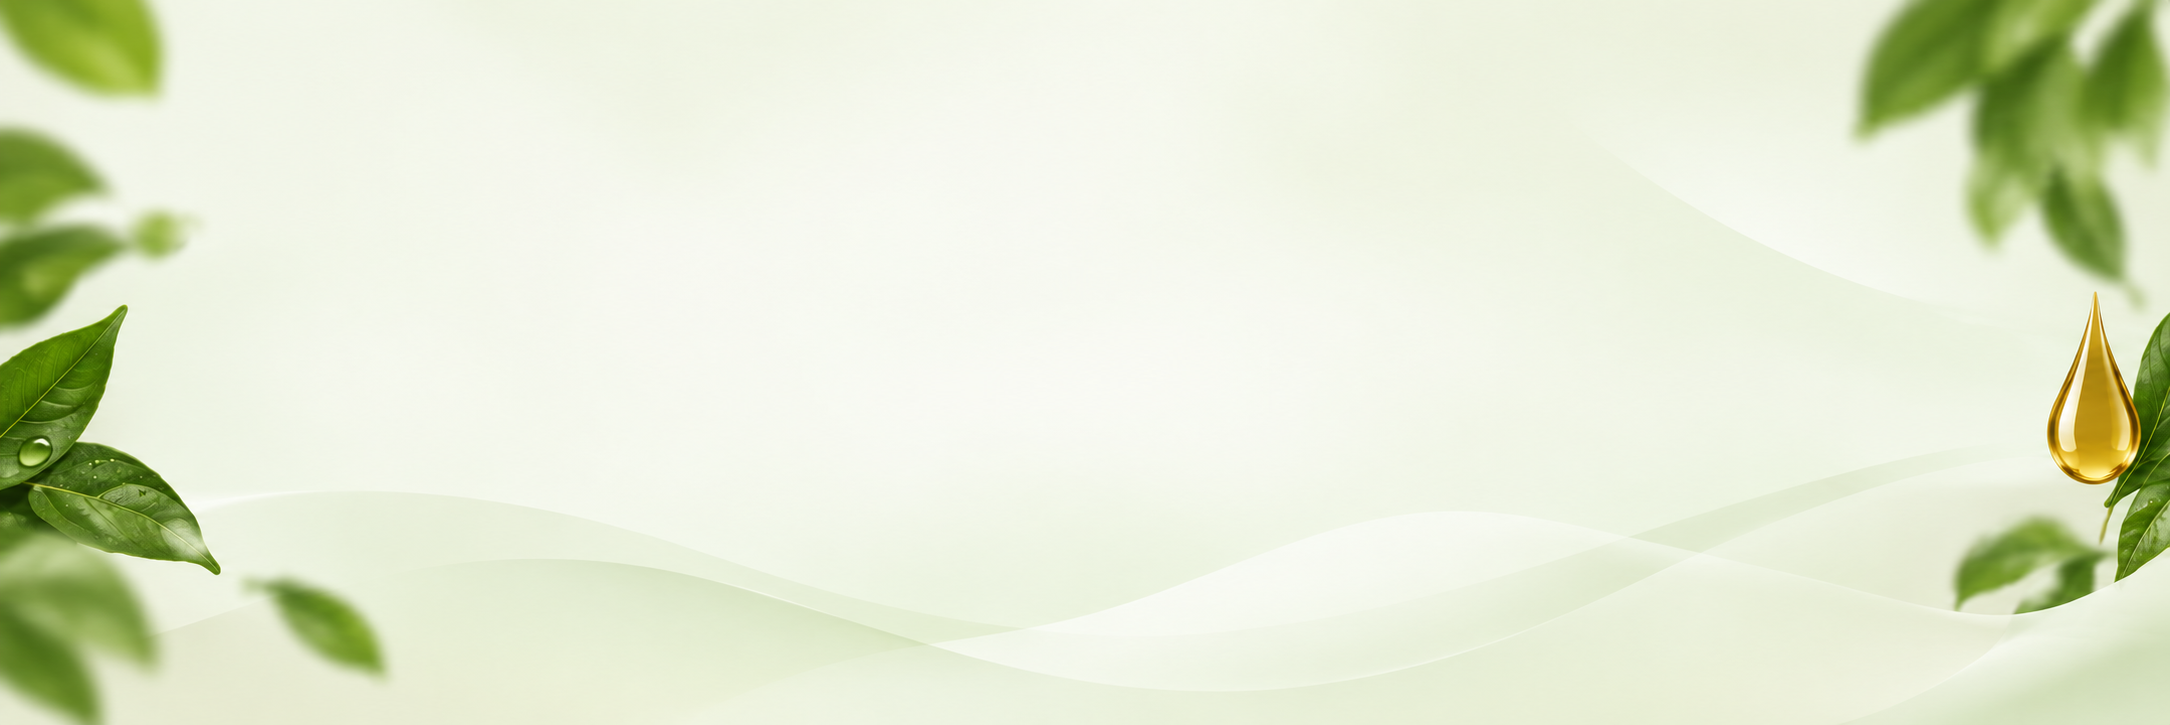
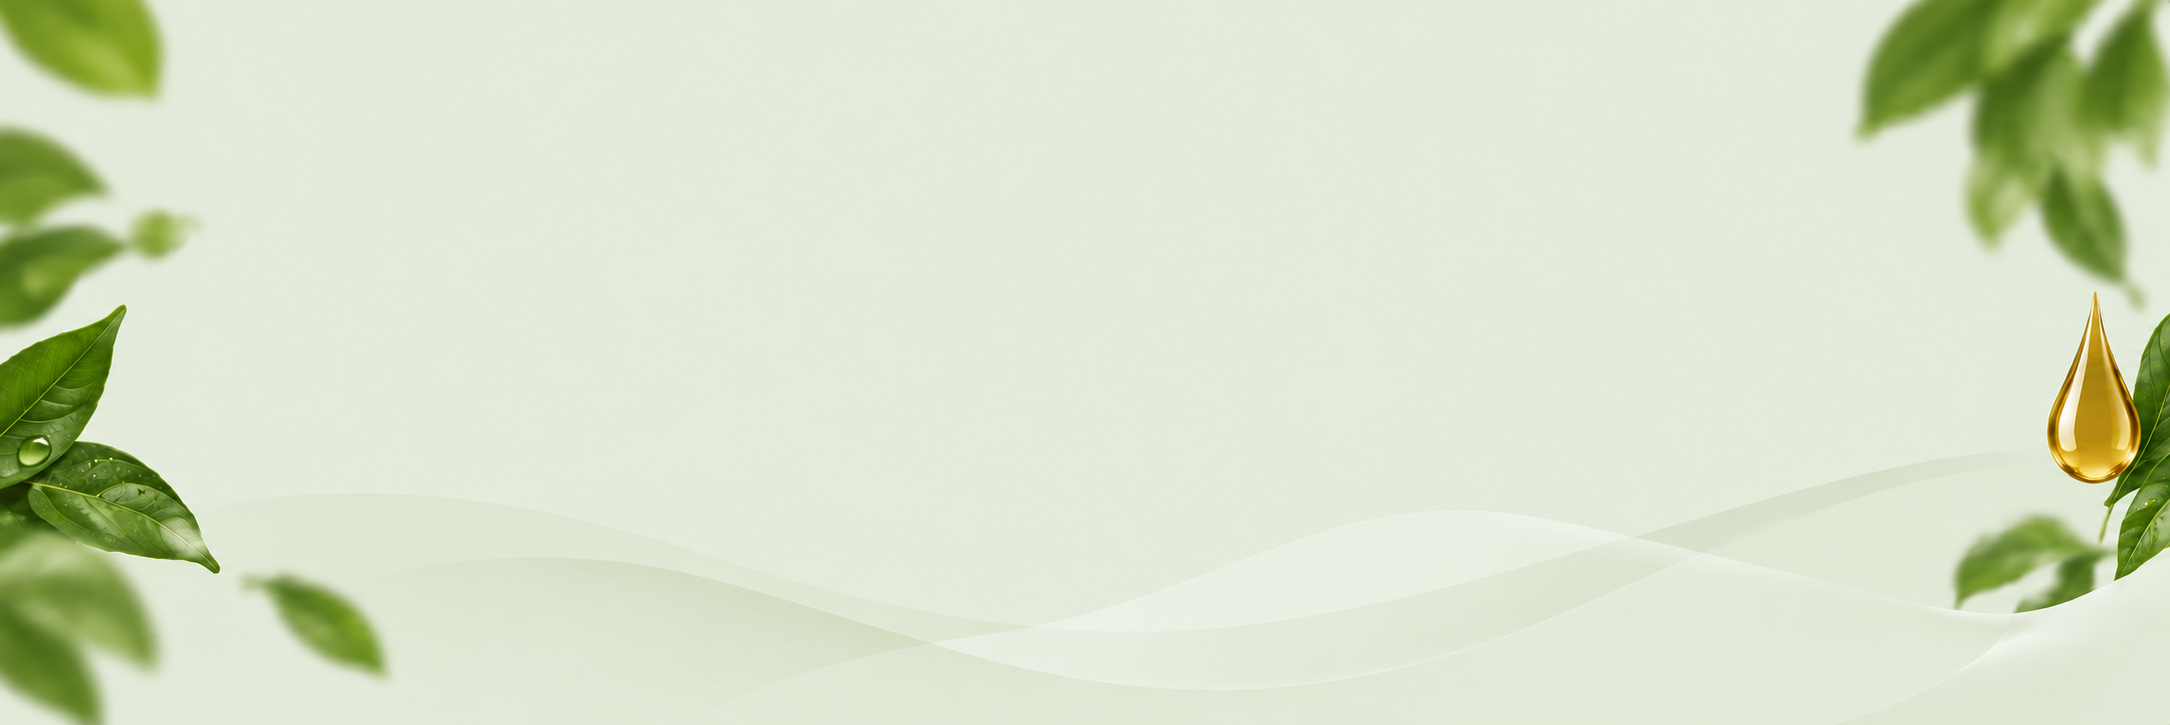
feat: add SectionHeading component with animated flourish and scroll effects

diff --git a/src/components/OilRange.jsx b/src/components/OilRange.jsx
@@ -1,157 +1,88 @@
-import { useEffect, useRef, useState } from 'react'
 import { Link } from 'react-router-dom'
 import { ArrowRight } from 'lucide-react'
 import { useProducts } from '../context/ProductsContext'
 import { useVisibleProducts } from '../lib/catalog'
 import VariantCard from './VariantCard'
+import TrustBar from './TrustBar'
+import SectionHeading from './SectionHeading'
 
-const REDUCED_MOTION =
-  typeof window !== 'undefined' &&
-  window.matchMedia?.('(prefers-reduced-motion: reduce)').matches
-
-// One half of the flourish: a flowing double line that ends in a curl.
-// Drawn for the left side; the right side is the same shape mirrored.
-function Scroll({ inView }) {
-  const draw = {
-    strokeDasharray: 1,
-    strokeDashoffset: inView ? 0 : 1,
-    transition: REDUCED_MOTION ? 'none' : 'stroke-dashoffset 1.1s var(--ease-default) 0.2s',
-  }
-  return (
-    <>
-      <path
-        pathLength="1"
-        d="M191,43 C170,52 148,53 128,45 C108,37 86,31 64,37 C46,42 34,49 20,45 C10,42 7,31 15,27 C21,24 28,29 25,34"
-        fill="none" stroke="currentColor" strokeWidth="3" strokeLinecap="round" style={draw}
-      />
-      <path
-        pathLength="1"
-        d="M191,43 C168,60 138,62 112,53 C92,46 76,40 62,38"
-        fill="none" stroke="currentColor" strokeWidth="2.2" strokeLinecap="round" style={draw}
-      />
-    </>
-  )
-}
-
-// Lotus + mirrored scrolls, echoing an ornamental divider — used as the
-// "underline" beneath each oil heading. Draws itself in on scroll.
-function Flourish({ inView }) {
-  const fade = {
-    opacity: inView ? 1 : 0,
-    transition: REDUCED_MOTION ? 'none' : 'opacity 0.7s var(--ease-default) 0.5s',
-  }
-  return (
-    <svg
-      viewBox="0 0 400 66"
-      aria-hidden="true"
-      className="mx-auto mt-2 h-11 w-[16rem] text-olive-600 sm:h-14 sm:w-[21rem]"
-    >
-      <Scroll inView={inView} />
-      <g transform="translate(400 0) scale(-1 1)">
-        <Scroll inView={inView} />
-      </g>
-
-      <g style={{ ...fade, color: 'var(--color-gold-500)' }} fill="currentColor">
-        {/* centre petal, with a hollow */}
-        <path
-          fillRule="evenodd"
-          d="M200,6 C190,17 183,28 187,41 C192,45 208,45 213,41 C217,28 210,17 200,6 Z M200,17 C195,25 193,33 196,39 C198,41 202,41 204,39 C207,33 205,25 200,17 Z"
-        />
-        {/* outline side petals */}
-        <path d="M168,20 C180,20 189,27 192,38 C182,38 173,31 168,20 Z" fill="none" stroke="currentColor" strokeWidth="2" strokeLinejoin="round" />
-        <path d="M232,20 C220,20 211,27 208,38 C218,38 227,31 232,20 Z" fill="none" stroke="currentColor" strokeWidth="2" strokeLinejoin="round" />
-        {/* solid lower petals */}
-        <path d="M156,43 C168,36 186,36 199,45 C186,52 168,52 156,43 Z" />
-        <path d="M244,43 C232,36 214,36 201,45 C214,52 232,52 244,43 Z" />
-      </g>
-    </svg>
-  )
-}
-
-function OilHeading({ text }) {
-  const ref = useRef(null)
-  const [inView, setInView] = useState(REDUCED_MOTION)
-
-  useEffect(() => {
-    if (REDUCED_MOTION || !ref.current) return
-    const io = new IntersectionObserver(
-      ([entry]) => {
-        if (entry.isIntersecting) {
-          setInView(true)
-          io.disconnect()
-        }
-      },
-      { threshold: 0.6 },
-    )
-    io.observe(ref.current)
-    return () => io.disconnect()
-  }, [])
-
-  return (
-    <div ref={ref}>
-      <h3 className="font-display text-3xl font-bold leading-tight text-olive-800 sm:text-4xl">
-        {text} <span className="font-medium text-gold-600">Samaha</span>
-      </h3>
-      <Flourish inView={inView} />
-    </div>
-  )
-}
+const SECTION_PAD = 'mx-auto max-w-[1500px] px-4 py-[clamp(2.5rem,6vw,4.5rem)] sm:px-[clamp(1.75rem,5vw,5rem)]'
 
 export default function OilRange() {
   const { oilGroups: OIL_VARIANTS, loading: productsLoading } = useProducts()
   const isVisible = useVisibleProducts()
 
-  if (productsLoading || OIL_VARIANTS.length === 0) return null
+  if (productsLoading) return null
+
+  const groups = OIL_VARIANTS
+    .map((oil) => ({ oil, variants: oil.variants.filter((v) => isVisible(v.slug)) }))
+    .filter((g) => g.variants.length > 0)
+
+  // nothing to list (e.g. the products API is down) — the trust bar still shows
+  if (groups.length === 0) return <TrustBar />
+
+  const [first, ...rest] = groups
+
+  // each oil: heading, cards (scroll sideways on mobile), "view all" button
+  const renderGroup = ({ oil, variants }) => (
+    <div key={oil.slug}>
+      <div className="text-center">
+        <SectionHeading title={oil.name} accent="Samaha" />
+        <p className="mt-2.5 text-xs uppercase tracking-[0.16em] text-text-mute">{oil.blurb}</p>
+      </div>
+
+      <div className="no-scrollbar mt-4 flex snap-x snap-mandatory gap-3 overflow-x-auto pb-1 sm:mt-5 sm:grid sm:snap-none sm:grid-cols-2 sm:gap-5 sm:overflow-visible lg:grid-cols-4">
+        {variants.map((v) => (
+          <div key={v.id} className="w-[64vw] max-w-[260px] shrink-0 snap-start sm:h-full sm:w-auto sm:max-w-none">
+            <VariantCard v={v} tint={oil.tint} blurb={oil.blurb} />
+          </div>
+        ))}
+      </div>
+
+      <div className="mt-5 text-center">
+        <Link
+          to={`/shop/${oil.slug}`}
+          className="group inline-flex items-center gap-1.5 rounded-pill border border-olive-800 px-4 py-2 text-xs font-semibold text-olive-900 transition-colors hover:bg-olive-900 hover:text-paper sm:text-sm"
+        >
+          View all {oil.name}
+          <ArrowRight size={13} className="transition-transform group-hover:translate-x-0.5" />
+        </Link>
+      </div>
+    </div>
+  )
+
+  const shopAll = (
+    <div className="mt-10 text-center sm:mt-12">
+      <Link
+        to="/shop"
+        className="group inline-flex items-center gap-2 rounded-pill border border-olive-800 px-6 py-3 text-sm font-semibold text-olive-900 transition-colors hover:bg-olive-900 hover:text-paper"
+      >
+        Shop all oils &amp; sizes
+        <ArrowRight size={15} className="transition-transform group-hover:translate-x-0.5" />
+      </Link>
+    </div>
+  )
 
   return (
-    <section className="bg-paper-inset" id="sizes" aria-label="Shop oils by size">
-      <div className="mx-auto max-w-[1500px] px-4 py-[clamp(2.5rem,6vw,4.5rem)] sm:px-[clamp(1.75rem,5vw,5rem)]">
-
-        {/* one section per oil, cards scroll horizontally on mobile */}
-        <div className="mt-2 space-y-10 sm:space-y-14">
-          {OIL_VARIANTS.map((oil) => {
-            const variants = oil.variants.filter((v) => isVisible(v.slug))
-            if (variants.length === 0) return null
-
-            return (
-              <div key={oil.slug}>
-                <div className="text-center">
-                  <OilHeading text={oil.name} />
-                  <p className="mt-2.5 text-xs uppercase tracking-[0.16em] text-text-mute">{oil.blurb}</p>
-                </div>
-
-                <div className="no-scrollbar mt-4 flex snap-x snap-mandatory gap-3 overflow-x-auto pb-1 sm:mt-5 sm:grid sm:snap-none sm:grid-cols-2 sm:gap-5 sm:overflow-visible lg:grid-cols-4">
-                  {variants.map((v) => (
-                    <div key={v.id} className="w-[64vw] max-w-[260px] shrink-0 snap-start sm:h-full sm:w-auto sm:max-w-none">
-                      <VariantCard v={v} tint={oil.tint} blurb={oil.blurb} />
-                    </div>
-                  ))}
-                </div>
-
-                <div className="mt-5 text-center">
-                  <Link
-                    to={`/shop/${oil.slug}`}
-                    className="group inline-flex items-center gap-1.5 rounded-pill border border-olive-800 px-4 py-2 text-xs font-semibold text-olive-900 transition-colors hover:bg-olive-900 hover:text-paper sm:text-sm"
-                  >
-                    View all {oil.name}
-                    <ArrowRight size={13} className="transition-transform group-hover:translate-x-0.5" />
-                  </Link>
-                </div>
-              </div>
-            )
-          })}
+    <>
+      <section className="bg-paper-inset" id="sizes" aria-label="Shop oils by size">
+        <div className={SECTION_PAD}>
+          {renderGroup(first)}
+          {rest.length === 0 && shopAll}
         </div>
+      </section>
 
-        <div className="mt-10 text-center sm:mt-12">
-          <Link
-            to="/shop"
-            className="group inline-flex items-center gap-2 rounded-pill border border-olive-800 px-6 py-3 text-sm font-semibold text-olive-900 transition-colors hover:bg-olive-900 hover:text-paper"
-          >
-            Shop all oils &amp; sizes
-            <ArrowRight size={15} className="transition-transform group-hover:translate-x-0.5" />
-          </Link>
-        </div>
-      </div>
-    </section>
+      {/* sits right after the first oil (Coconut) */}
+      <TrustBar />
+
+      {rest.length > 0 && (
+        <section className="bg-paper-inset" aria-label="More oils">
+          <div className={SECTION_PAD}>
+            <div className="space-y-10 sm:space-y-14">{rest.map(renderGroup)}</div>
+            {shopAll}
+          </div>
+        </section>
+      )}
+    </>
   )
 }

diff --git a/src/components/SectionHeading.jsx b/src/components/SectionHeading.jsx
@@ -1,0 +1,94 @@
+import { useEffect, useRef, useState } from 'react'
+
+const REDUCED_MOTION =
+  typeof window !== 'undefined' &&
+  window.matchMedia?.('(prefers-reduced-motion: reduce)').matches
+
+// One half of the flourish: a flowing double line that ends in a curl.
+// Drawn for the left side; the right side is the same shape mirrored.
+function Scroll({ inView }) {
+  const draw = {
+    strokeDasharray: 1,
+    strokeDashoffset: inView ? 0 : 1,
+    transition: REDUCED_MOTION ? 'none' : 'stroke-dashoffset 1.1s var(--ease-default) 0.2s',
+  }
+  return (
+    <>
+      <path
+        pathLength="1"
+        d="M191,43 C170,52 148,53 128,45 C108,37 86,31 64,37 C46,42 34,49 20,45 C10,42 7,31 15,27 C21,24 28,29 25,34"
+        fill="none" stroke="currentColor" strokeWidth="3" strokeLinecap="round" style={draw}
+      />
+      <path
+        pathLength="1"
+        d="M191,43 C168,60 138,62 112,53 C92,46 76,40 62,38"
+        fill="none" stroke="currentColor" strokeWidth="2.2" strokeLinecap="round" style={draw}
+      />
+    </>
+  )
+}
+
+// Lotus + mirrored scrolls, echoing an ornamental divider — used as the
+// "underline" beneath section headings. Draws itself in on scroll.
+function Flourish({ inView }) {
+  const fade = {
+    opacity: inView ? 1 : 0,
+    transition: REDUCED_MOTION ? 'none' : 'opacity 0.7s var(--ease-default) 0.5s',
+  }
+  return (
+    <svg
+      viewBox="0 0 400 66"
+      aria-hidden="true"
+      className="mx-auto mt-2 h-11 w-[16rem] text-olive-600 sm:h-14 sm:w-[21rem]"
+    >
+      <Scroll inView={inView} />
+      <g transform="translate(400 0) scale(-1 1)">
+        <Scroll inView={inView} />
+      </g>
+
+      <g style={{ ...fade, color: 'var(--color-gold-500)' }} fill="currentColor">
+        {/* centre petal, with a hollow */}
+        <path
+          fillRule="evenodd"
+          d="M200,6 C190,17 183,28 187,41 C192,45 208,45 213,41 C217,28 210,17 200,6 Z M200,17 C195,25 193,33 196,39 C198,41 202,41 204,39 C207,33 205,25 200,17 Z"
+        />
+        {/* outline side petals */}
+        <path d="M168,20 C180,20 189,27 192,38 C182,38 173,31 168,20 Z" fill="none" stroke="currentColor" strokeWidth="2" strokeLinejoin="round" />
+        <path d="M232,20 C220,20 211,27 208,38 C218,38 227,31 232,20 Z" fill="none" stroke="currentColor" strokeWidth="2" strokeLinejoin="round" />
+        {/* solid lower petals */}
+        <path d="M156,43 C168,36 186,36 199,45 C186,52 168,52 156,43 Z" />
+        <path d="M244,43 C232,36 214,36 201,45 C214,52 232,52 244,43 Z" />
+      </g>
+    </svg>
+  )
+}
+
+/** Centered section title: bold green text, a gold accent word, and (optionally) the lotus flourish beneath. */
+export default function SectionHeading({ title, accent, as: Tag = 'h3', flourish = true }) {
+  const ref = useRef(null)
+  const [inView, setInView] = useState(REDUCED_MOTION)
+
+  useEffect(() => {
+    if (!flourish || REDUCED_MOTION || !ref.current) return
+    const io = new IntersectionObserver(
+      ([entry]) => {
+        if (entry.isIntersecting) {
+          setInView(true)
+          io.disconnect()
+        }
+      },
+      { threshold: 0.6 },
+    )
+    io.observe(ref.current)
+    return () => io.disconnect()
+  }, [flourish])
+
+  return (
+    <div ref={ref}>
+      <Tag className="font-display text-3xl font-bold leading-tight text-olive-800 sm:text-4xl">
+        {title} <span className="font-medium text-gold-600">{accent}</span>
+      </Tag>
+      {flourish && <Flourish inView={inView} />}
+    </div>
+  )
+}

diff --git a/src/components/TrustBar.jsx b/src/components/TrustBar.jsx
@@ -1,4 +1,5 @@
 import { Droplet, Leaf, ShieldPlus, BadgeCheck } from 'lucide-react'
+import SectionHeading from './SectionHeading'
 
 const ITEMS = [
   { Icon: Droplet, label: '100% Pure' },
@@ -7,16 +8,32 @@ const ITEMS = [
   { Icon: BadgeCheck, label: 'Trusted Quality' },
 ]
 
+// On phones the section is taller and uses the portrait artwork (hwhy), so
+// its corner leaves aren't cropped away; wider screens use the banner.
 export default function TrustBar() {
   return (
-    <section className="border-y border-line bg-paper-2" aria-label="Why Samaha">
-      <div className="py-[clamp(1.5rem,3vw,2rem)] px-[var(--spacing-gutter)] min-[901px]:px-[calc(var(--spacing-gutter)+1.5rem)]">
-        <ul className="grid grid-cols-4 gap-x-4 gap-y-6 max-[640px]:grid-cols-2">
+    <section className="relative overflow-hidden bg-paper-2 max-[639px]:flex max-[639px]:min-h-[92vw] max-[639px]:items-center" aria-label="Why Samaha">
+      <picture>
+        <source media="(max-width: 639px)" srcSet="/hwhy.webp" />
+        <img
+          src="/why.webp"
+          alt=""
+          loading="lazy"
+          decoding="async"
+          className="absolute inset-0 h-full w-full object-cover max-[639px]:object-[50%_88%]"
+        />
+      </picture>
+      <div className="relative mx-auto w-full max-w-[1100px] py-[clamp(2.25rem,5vw,3.75rem)] px-[var(--spacing-gutter)]">
+        <div className="text-center">
+          <SectionHeading as="h2" title="Why choose" accent="us" flourish={false} />
+        </div>
+
+        <ul className="mt-[clamp(1.75rem,4vw,2.75rem)] grid grid-cols-4 gap-x-4 gap-y-8 max-[640px]:grid-cols-2">
           {ITEMS.map(({ Icon, label }) => (
-            <li key={label} className="flex flex-col items-center gap-2 text-center">
-              <Icon width={26} height={26} className="text-olive-950" />
+            <li key={label} className="flex flex-col items-center gap-3 text-center">
+              <Icon width={30} height={30} className="text-olive-900" />
               <span className="font-semibold tracking-[0.02em] text-olive-900"
-                    style={{ fontSize: 'clamp(0.8rem, 0.75rem + 0.2vw, 0.95rem)' }}>
+                    style={{ fontSize: 'clamp(0.85rem, 0.78rem + 0.3vw, 1.05rem)' }}>
                 {label}
               </span>
             </li>

diff --git a/src/App.jsx b/src/App.jsx
@@ -7,7 +7,6 @@ import AnnouncementBar from './components/AnnouncementBar'
 import Navbar from './components/Navbar'
 import MobileTabBar from './components/MobileTabBar'
 import ImageSlider from './components/ImageSlider'
-import TrustBar from './components/TrustBar'
 import About from './components/About'
 import Products from './components/Products'
 import OilRange from './components/OilRange'
@@ -83,7 +82,6 @@ function Home() {
         
         <Products />
         <OilRange />
-        <TrustBar />
         <About />
         <Benefits />
         <WhySamaha />
